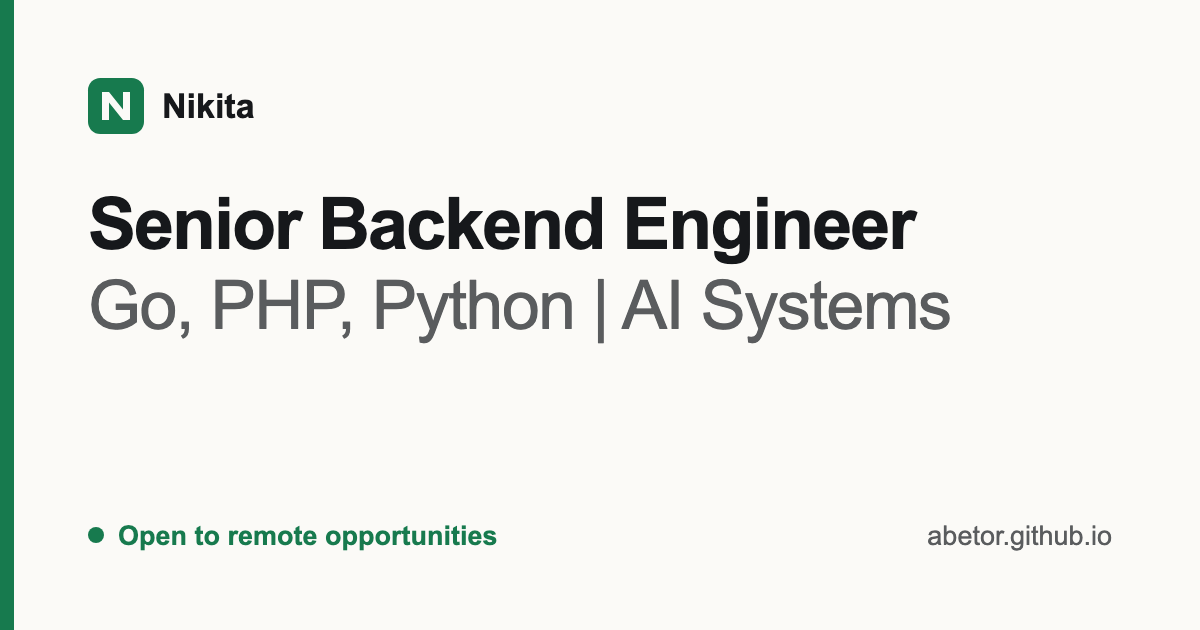
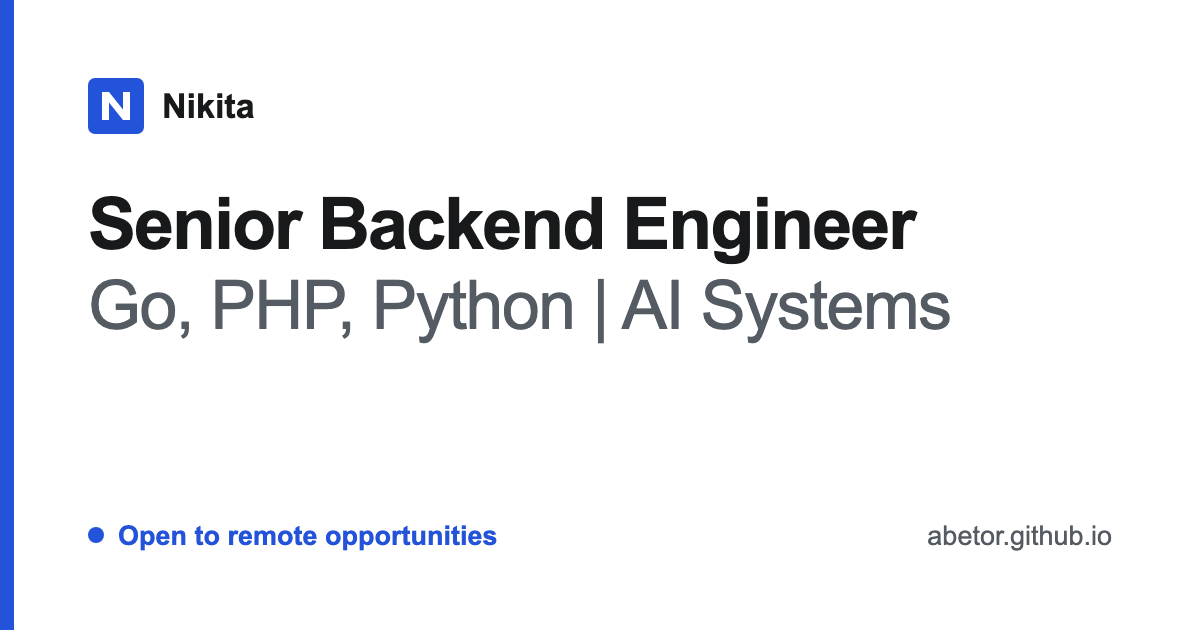
Apply Swiss colors and details while preserving page layout

Changed region(s): [[0.0, 0.0, 0.0308, 1.0], [0.0617, 0.8143, 0.4317, 0.8746], [0.0617, 0.1206, 0.1233, 0.2111]]

diff --git a/style.css b/style.css
@@ -1,12 +1,12 @@
 :root {
-  --bg: #fbfaf7;
-  --text: #16181b;
-  --accent: #177a4e;
+  --bg: #ffffff;
+  --text: #17191b;
+  --accent: #2353d9;
   --surface: var(--bg);
   --body: var(--text);
-  --muted: color-mix(in srgb, var(--text) 72%, var(--bg));
-  --rule: color-mix(in srgb, var(--text) 12%, var(--bg));
-  --rule-strong: color-mix(in srgb, var(--text) 20%, var(--bg));
+  --muted: #555b63;
+  --rule: #d9dce2;
+  --rule-strong: var(--text);
   --live: var(--accent);
   --code-bg: color-mix(in srgb, var(--text) 6%, var(--bg));
   --sans: -apple-system, BlinkMacSystemFont, "Segoe UI", Inter, Roboto, "Helvetica Neue", Arial, sans-serif;
@@ -114,7 +114,7 @@ ul {
   flex: none;
   width: 1.75rem;
   height: 1.75rem;
-  background: url("favicon.svg") center / contain no-repeat;
+  background: url("favicon.svg?v=20261007-swiss") center / contain no-repeat;
 }
 
 .hero h1 {
@@ -182,7 +182,7 @@ ul {
   color: var(--bg);
   text-decoration: none;
   padding: 0.6rem 1.05rem;
-  border-radius: 8px;
+  border-radius: 0;
   font-weight: 600;
 }
 
@@ -198,7 +198,7 @@ ul {
   padding: 0.3rem 0.8rem 0.3rem 0.65rem;
   border: 1px solid color-mix(in srgb, var(--live) 35%, transparent);
   background: color-mix(in srgb, var(--live) 8%, var(--bg));
-  border-radius: 999px;
+  border-radius: 0;
   font-size: 0.88rem;
   font-weight: 560;
   color: var(--accent);
@@ -263,9 +263,9 @@ main h2 {
 .case-list article {
   background: var(--surface);
   border: 1px solid var(--rule);
-  border-radius: 12px;
+  border-radius: 0;
   padding: 1.4rem 1.6rem 1.5rem;
-  box-shadow: 0 1px 2px rgb(22 24 27 / 0.04);
+  box-shadow: none;
 }
 
 .case-list h3 {

diff --git a/index.html b/index.html
@@ -11,17 +11,17 @@
   <meta property="og:type" content="website">
   <meta property="og:url" content="https://abetor.github.io/">
   <meta property="og:description" content="Backend engineering since 2019. AI content moderation, LLM orchestration and evaluation, and a publicly launched content generation product.">
-  <meta property="og:image" content="https://abetor.github.io/og.png?v=20261007">
+  <meta property="og:image" content="https://abetor.github.io/og.png?v=20261007-swiss">
   <meta property="og:image:type" content="image/png">
   <meta property="og:image:width" content="1200">
   <meta property="og:image:height" content="630">
   <meta property="og:image:alt" content="Preview card for Nikita, Senior Backend Engineer building AI systems.">
   <meta name="twitter:card" content="summary_large_image">
   <meta name="color-scheme" content="light">
-  <link rel="icon" href="favicon.ico" sizes="32x32">
-  <link rel="icon" href="favicon.svg" type="image/svg+xml">
-  <link rel="apple-touch-icon" href="apple-touch-icon.png">
-  <link rel="stylesheet" href="style.css?v=20261007">
+  <link rel="icon" href="favicon.ico?v=20261007-swiss" sizes="32x32">
+  <link rel="icon" href="favicon.svg?v=20261007-swiss" type="image/svg+xml">
+  <link rel="apple-touch-icon" href="apple-touch-icon.png?v=20261007-swiss">
+  <link rel="stylesheet" href="style.css?v=20261007-swiss">
   <script type="application/ld+json">
   {
     "@context": "https://schema.org",
